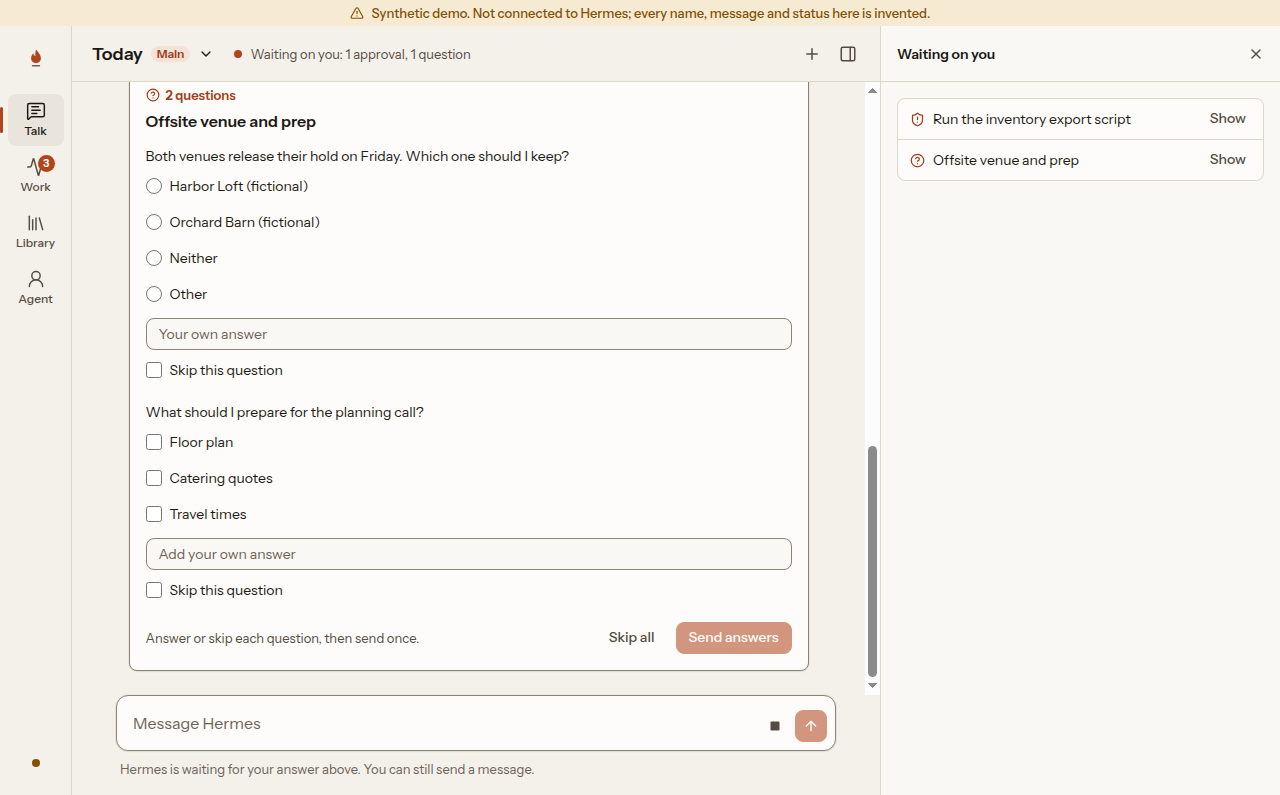
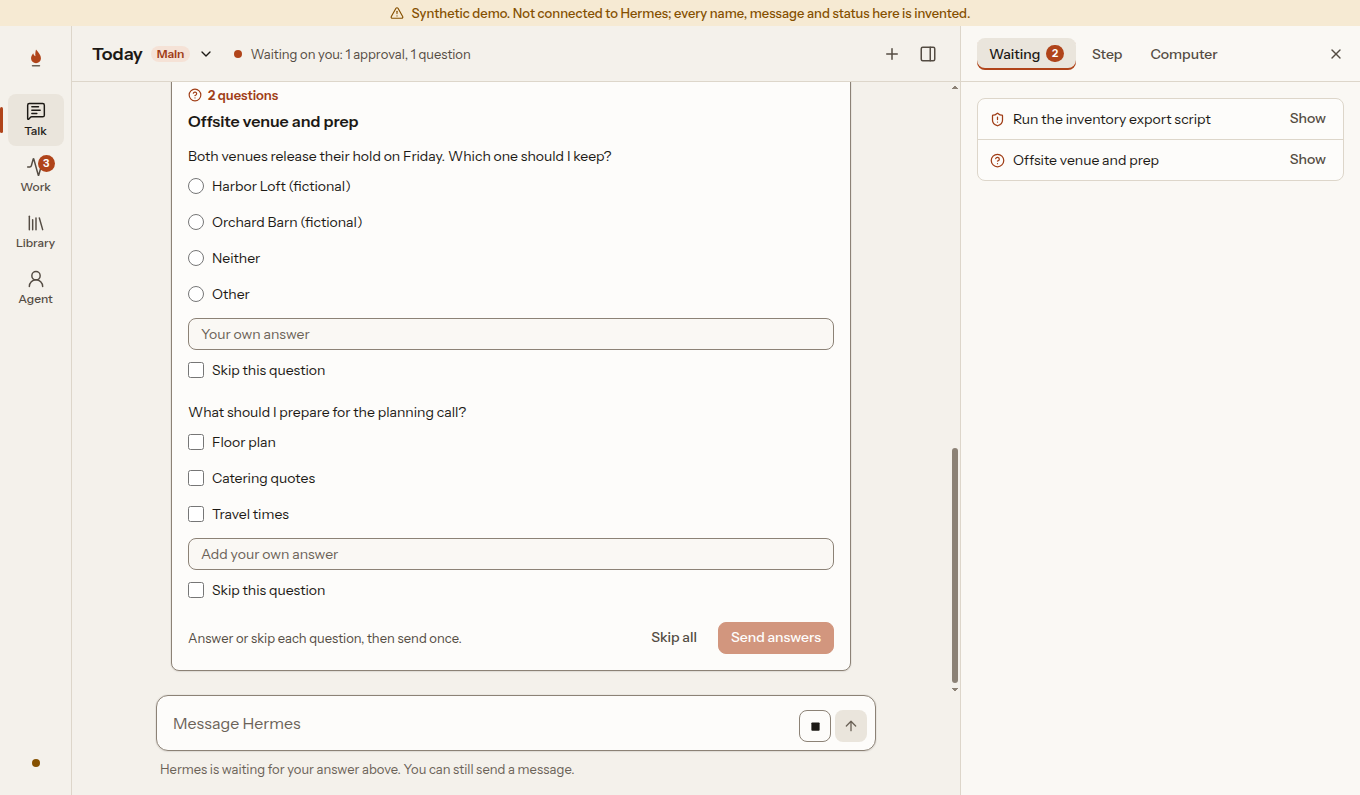
Draw thin, themed scrollbars, and show the new details in the handbook
Windows, Linux and the desktop app drew the platform's wide grey
scrollbars, arrow buttons included, beside the conversation and the
margin. They are now thin and use the theme's colours (standard
`scrollbar-width` and `scrollbar-color`).

The handbook's web gallery gains a tablet view of Talk (day-aware times,
a reply waiting on the owner, Latest with "Needs you"), the conversation
list on a phone, the palette with its key hints, and Agent's runtime on a
phone; the memory screenshots and the desktop demo (now at the 1360px
default, panel as a column) are recaptured. Synthetic demo only.

diff --git a/apps/web/src/styles/global.css b/apps/web/src/styles/global.css
@@ -10,6 +10,14 @@
 html {
   -webkit-text-size-adjust: 100%;
   text-size-adjust: 100%;
+  /* Scrollbars in the theme's colours (inherited by every scroller), and thin:
+     Windows, Linux and the desktop app otherwise draw wide grey bars with
+     arrow buttons beside the conversation and the margin. */
+  scrollbar-color: var(--color-border-strong) transparent;
+}
+
+* {
+  scrollbar-width: thin;
 }
 
 html,

diff --git a/docs/handbook/clients/web.md b/docs/handbook/clients/web.md
@@ -143,6 +143,14 @@ which has no data to label.
 
 ![Deleting a memory entry on a phone: Cindl warns that Hermes keeps no backup](/screenshots/web/memory-delete-phone-dark.png)
 
+![Talk on a tablet in the dark theme: day-aware message times, a reply waiting on the owner, and Latest noting that something below needs you](/screenshots/web/talk-tablet-dark.png)
+
+![The conversation list on a phone: a sheet with its own title and close button](/screenshots/web/history-phone-light.png)
+
+![The command palette in the dark theme: the theme in use marked Current, and its keys along the foot](/screenshots/web/palette-desktop-dark.png)
+
+![Agent, Runtime on a phone in the dark theme: the section strip fades where more sections are, and each capability's state sits above its reason](/screenshots/web/agent-runtime-phone-dark.png)
+
 ![The desktop app's sign-in screen, which asks only for the Hermes address](/screenshots/web/desktop-sign-in-light.png)
 
 ## Build
@@ -351,6 +359,9 @@ in use is marked "Current". The shortcuts list has a close button as well as
   the clock and older ones by the day. A document says when it was read in
   words ("Read today at 9:55 PM"); a step's status reads as its row does
   ("Done", "Failed").
+- **Scrollbars** are thin and in the theme's colours, so Windows, Linux and
+  the desktop app no longer draw wide grey bars with arrow buttons beside the
+  conversation.
 - **Lists and tabs.** Rows that open something end in a chevron and are
   divided like every other list; "All skills" leads back with one. On a
   phone a section strip that does not fit (Agent's five) fades at its edge
